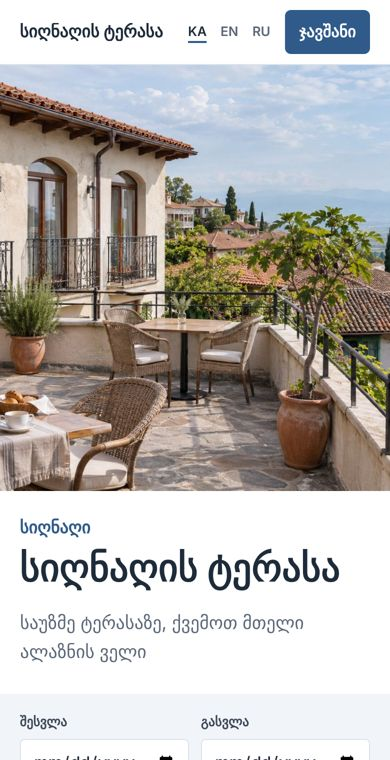
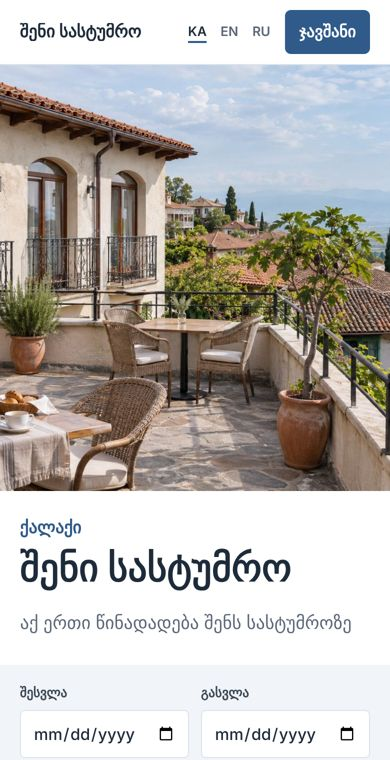
Template samples show placeholder words, not a real hotel
- ?sample=1: 'შენი სასტუმრო' / 'Your Hotel', 'ქალაქი', placeholder tagline, description and address
- the owners' page links and template pictures use the sample view

Claude-Session: https://claude.ai/code/session_01Uk8hUxBtwk8BrGjB66jmzc

diff --git a/public/site/site.js b/public/site/site.js
@@ -37,6 +37,10 @@
     foodAllPlaces: ['ყველა რესტორანი და კაფე', 'All restaurants and cafés', 'Все рестораны и кафе'],
     foodKind: ['სამზარეულო', 'Cuisine', 'Кухня'], foodAny: ['ყველა', 'All', 'Все'], close: ['დახურვა', 'Close', 'Закрыть'],
     foodNote: ['სია Visit2.ge-დანაა. „რეკომენდებული“ რესტორნის ფასიანი ადგილია.', 'List from Visit2.ge. “Recommended” is a paid spot.', 'Список от Visit2.ge. «Рекомендуем» — платное размещение.'],
+    sampleName: ['შენი სასტუმრო', 'Your Hotel', 'Ваш отель'], sampleCity: ['ქალაქი', 'Town', 'Город'],
+    sampleTag: ['აქ ერთი წინადადება შენს სასტუმროზე', 'One sentence about your place', 'Одно предложение о вашем отеле'],
+    sampleAbout: ['აქ იქნება შენი სასტუმროს აღწერა: რით არის გამორჩეული, რა არის ახლოს და რატომ ბრუნდებიან სტუმრები. ტექსტს და ფოტოებს ადმინში შეცვლი.', 'Your description goes here: what makes your place special, what is nearby and why guests come back. Change texts and photos in the admin.', 'Здесь будет описание: чем особенно ваше место, что рядом и почему гости возвращаются. Тексты и фото меняются в админке.'],
+    sampleAddr: ['შენი მისამართი', 'Your address', 'Ваш адрес'],
     book: ['დაჯავშნა', 'Book', 'Забронировать'], bookShort: ['ჯავშანი', 'Book', 'Бронь'], checkin: ['შესვლა', 'Check-in', 'Заезд'], checkout: ['გასვლა', 'Check-out', 'Выезд'],
     adults: ['სტუმარი 10 წლიდან', 'Guests 10+', 'Гости от 10 лет'], kids: ['ბავშვი 10 წლამდე', 'Children under 10', 'Дети до 10 лет'],
     name: ['სახელი', 'Name', 'Имя'], phone: ['ტელეფონი', 'Phone', 'Телефон'], wish: ['სპეციალური მოთხოვნა', 'Special request', 'Особые пожелания'],
@@ -87,6 +91,7 @@
   // ---------- state ----------
   let C = {}; // site content from the server (or DEMO)
   const params = new URLSearchParams(location.search);
+  const sample = params.get('sample') === '1';
   const isDemo = () => !!(J.hotel && J.hotel.demo);
   const slug = () => (J.hotel && J.hotel.slug) || 'demo';
   const demoHotel = () => (isDemo() && window.V2DEMO ? window.V2DEMO.get(slug()) : null);
@@ -115,7 +120,9 @@
   const img = (src, alt = '', cls = '') => src ? `<img class="${cls}" src="${esc(src)}" alt="${esc(alt)}" loading="lazy" decoding="async">` : `<div class="ph ${cls}" aria-hidden="true"></div>`;
 
   function render() {
-    const s = S(), h = J.hotel || {}, c = contact(), th = theme();
+    // a template sample (?sample=1) shows placeholder words instead of a real hotel's name and texts
+    const s = sample ? { ...S(), hero: { ...S().hero, tagline: w('sampleTag') }, about: { ...S().about, text: w('sampleAbout') }, location: { ...S().location, text: w('sampleAddr') } } : S();
+    const h = sample ? { ...(J.hotel || {}), name: w('sampleName'), city: w('sampleCity') } : (J.hotel || {}), c = contact(), th = theme();
     document.documentElement.dataset.theme = th;
     document.documentElement.style.setProperty('--accent', accent());
     $('#themeCss').href = `site/themes/${th}.css?v=${V}`;
@@ -155,7 +162,7 @@
       ${s.location?.map || c.map ? `<a class="btn btn-ghost" href="${esc(s.location?.map || c.map)}" target="_blank" rel="noopener">${w('map')}</a>` : ''}
     </div>
   </section>
-  ${foodSection(h)}
+  ${foodSection(J.hotel || {})}
 </main>
 <footer class="foot"><span>${esc(h.name || '')}${h.city ? ', ' + esc(h.city) : ''}</span><a href="https://visit2.ge" rel="noopener">Visit2.ge · ${w('directly')}</a></footer>
 ${isDemo() ? demoPanel() : ''}`;

diff --git a/public/site/platform.js b/public/site/platform.js
@@ -275,7 +275,7 @@
   function renderOwners() {
     if (!$('#ownerForm')) return;
     const cur = $('#ownerForm').theme?.value || 'kva', curC = $('#ownerForm').accent?.value || COLORS[0];
-    $('#tplList').innerHTML = TPL.map(([id, demo, nm, note]) => `<figure class="tpl-item"><img src="img/templates/${id}.jpg" alt="${esc(nm[L()])}" loading="lazy"><figcaption><b>${esc(nm[L()])}</b><p>${esc(note[L()])}</p><a href="hotel.html?h=${demo}&theme=${id}${BUILD ? '&v=' + BUILD : ''}">${t('sample')}</a></figcaption></figure>`).join('');
+    $('#tplList').innerHTML = TPL.map(([id, demo, nm, note]) => `<figure class="tpl-item"><img src="img/templates/${id}.jpg" alt="${esc(nm[L()])}" loading="lazy"><figcaption><b>${esc(nm[L()])}</b><p>${esc(note[L()])}</p><a href="hotel.html?h=${demo}&theme=${id}&sample=1${BUILD ? '&v=' + BUILD : ''}">${t('sample')}</a></figcaption></figure>`).join('');
     $('#tplChoice').innerHTML = TPL.map(([id, , nm]) => `<label><input type="radio" name="theme" value="${id}"${id === cur ? ' checked' : ''}><span class="opt">${esc(nm[L()])}</span></label>`).join('');
     $('#colChoice').innerHTML = COLORS.map(c => `<label><input type="radio" name="accent" value="${c}"${c === curC ? ' checked' : ''} aria-label="${t('fCol')} ${c}"><span class="opt dot" style="--c:${c}"></span></label>`).join('');
     const mine = D.mine(); if (mine) showDone(mine);
